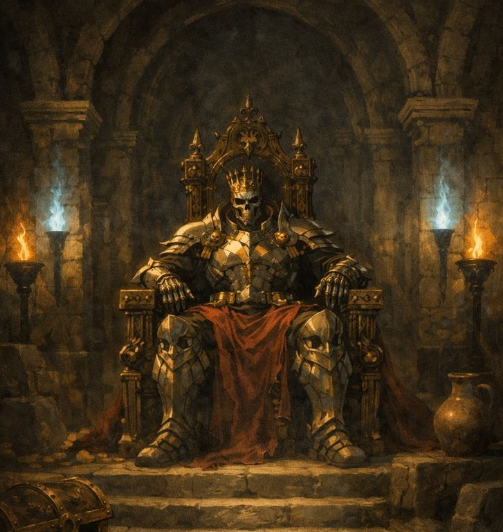
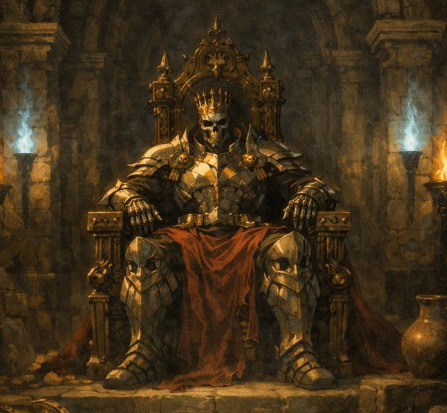
feat - atualização de imagens

diff --git a/src/data/characters.ts b/src/data/characters.ts
@@ -71,7 +71,7 @@ export const characters = [
         name: 'Abel',
         title: 'O Mago Médico (Falecido)',
         description: 'Conhecido por dominar magias de sangue, cura e manipulação da vida. Foi um dos fundadores do maior círculo mágico do continente. Foi responsável por inúmeros avanços em medicina arcana.',
-        image: '/characters/semImagem.png',
+        image: '/characters/Abel.png',
         type: 'notavel'
     },
     {
@@ -79,7 +79,7 @@ export const characters = [
         name: 'Mufus',
         title: 'O Sábio dos Fungos',
         description: 'Especialista em venenos, contaminações naturais e esporos místicos. Considerado excêntrico, mas extremamente inteligente. Foi Guardião do Selo do Leste, um cargo confiado apenas a magos de extrema confiança. Prefere o isolamento.',
-        image: '/characters/semImagem.png',
+        image: '/characters/mufus.png',
         type: 'notavel'
     },
     {
@@ -87,7 +87,7 @@ export const characters = [
         name: 'Lupos',
         title: 'O Guerreiro Arcano',
         description: 'Um mago de combate direto, estrategista militar. Comandante Arcano das Forças de Isidor. É temido por sua força e lealdade inflexível. Criador do selo de armas mágicas.',
-        image: '/characters/semImagem.png',
+        image: '/characters/Lupos.png',
         type: 'notavel'
     },
     {
@@ -95,7 +95,7 @@ export const characters = [
         name: 'Kátia',
         title: 'A Senhora da Magia (Falecida)',
         description: 'Antiga Líder da Associação dos Magos de Isidor, Kátia foi a ponte entre o poder político e o arcano. Dominava quase todos os ramos da magia. Líder do trio de magos composto por Lupos, Mufus e Abel. Sua presença foi essencial para manter a ordem.',
-        image: '/characters/semImagem.png',
+        image: '/characters/Katia.png',
         type: 'notavel'
     },
     {
@@ -112,7 +112,7 @@ export const characters = [
         title: 'Exploradora das Areias',
         description: 'Lendária exploradora que desvendou os segredos de templos esquecidos sob as dunas.',
         fullDescription: 'A princípio apenas uma corajosa exploradora das areias, Mikalia fez sua lenda desvendando templos abandonados perdidos sob as dunas incansáveis do deserto profundo. Com o passar do tempo, o vasto número de comerciantes, forasteiros e aventureiros que seguiam suas rotas começou a se aglomerar em torno de seus acampamentos seguros em busca de abrigo e negociações.\n\nSob a liderança firme e inigualável habilidade de sobrevivência de Mikalia, esse assentamento improvisado floresceu, transformando-se de um punhado de tendas em uma gigantesca e respeitada cidade erguida no centro do deserto.\n\nHoje coroada como Rainha, ela transcendeu a fama original como desbravadora, conquistando o respeito absoluto de seu povo e de reinos distantes através da coragem, hospitalidade e uma liderança implacável forjada nas areias.',
-        image: '/characters/semImagem.png',
+        image: '/characters/rainha-mikalia.png',
         type: 'notavel'
     },
     {
@@ -121,7 +121,7 @@ export const characters = [
         title: 'O Tecelão de Runas',
         description: 'Artesão lendário de Valenor, cujas oficinas deram vida a armas e joias de poder imensurável.',
         fullDescription: 'Thamior, o Tecelão de Runas – artesão lendário de Valenor, suas oficinas já produziram armas e joias mágicas. Após sua morte, sua forja permanece fechada, mas dizem que algumas de suas criações carregam parte de sua alma.',
-        image: '/characters/semImagem.png',
+        image: '/characters/thamior.png',
         type: 'notavel'
     },
     {

diff --git a/src/data/races.ts b/src/data/races.ts
@@ -57,7 +57,7 @@ export const races: Race[] = [
     categoryLabel: 'Raça Jogável',
     playable: true,
     canUseMagic: false,
-    image: '/races/humans.jpg',
+    image: '/races/humans.png',
     traits: ['Versatilidade', 'Adaptabilidade', 'Sem limitações extremas', 'Balanceado em tudo', 'Vantagem em Persuasão'],
     passive: {
       name: 'Vantagem em Persuasão',
@@ -99,7 +99,7 @@ export const races: Race[] = [
     categoryLabel: 'Raça Jogável',
     playable: true,
     canUseMagic: true,
-    image: '/races/skeletons.jpg',
+    image: '/races/skeletons.png',
     traits: ['Imune a sangramento', 'Imune a veneno', 'Canalização mágica', 'Eco de magias', 'Vínculo espectral'],
     passive: {
       name: 'Imune a Sangramento e Veneno',
@@ -141,7 +141,7 @@ export const races: Race[] = [
     categoryLabel: 'Raça Jogável',
     playable: true,
     canUseMagic: false,
-    image: '/races/orcs.jpg',
+    image: '/races/orcs.png',
     traits: ['Quatro braços', 'Alta Força', 'Alta Vitalidade', '+4 dano em contra-ataques', 'Pode usar 2 armas médias sem desvantagem'],
     passive: {
       name: '+4 de Dano em Contra-ataques',
@@ -267,7 +267,7 @@ export const races: Race[] = [
     categoryLabel: 'Raça Jogável',
     playable: true,
     canUseMagic: false,
-    image: '/races/obumbratio.jpg',
+    image: '/races/obumbratio.png',
     traits: ['Vantagem em Furtividade', 'Tamanho pequeno', 'Dano furtivo', 'Invisibilidade', 'Ardiloso'],
     passive: {
       name: 'Vantagem em Furtividade',
@@ -311,7 +311,7 @@ export const races: Race[] = [
     playable: false,
     canUseMagic: true,
     traits: ['Resistência a fogo', 'Escuridão', 'Persuasão', 'Magia infernal'],
-    image: '/races/tieflings.jpg',
+    image: '/races/tieflings.png',
   },
   {
     id: 'anao',
